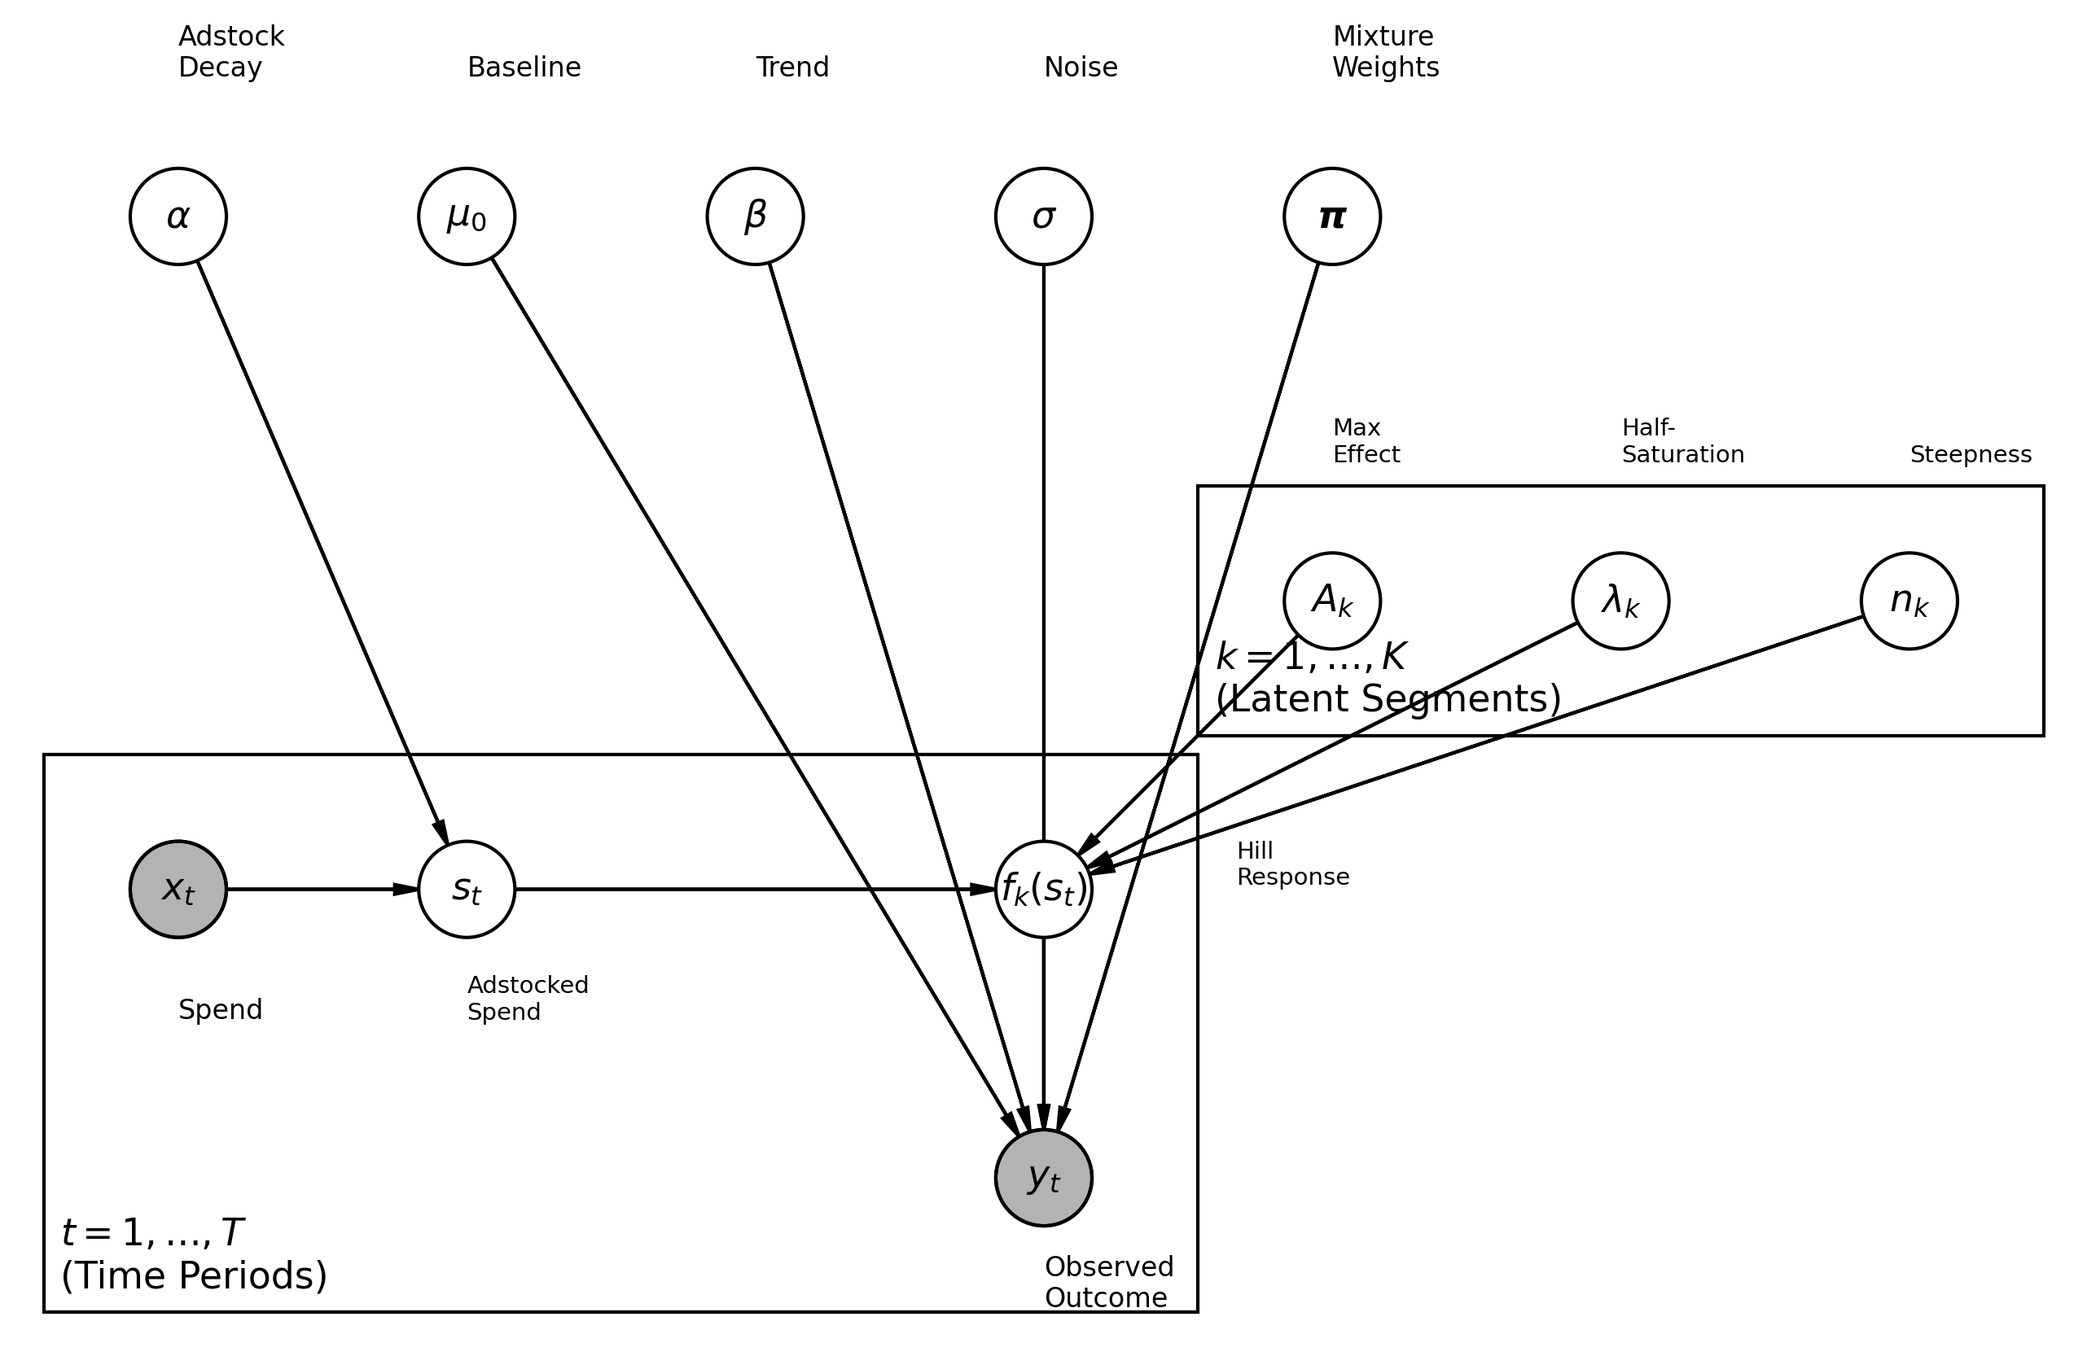
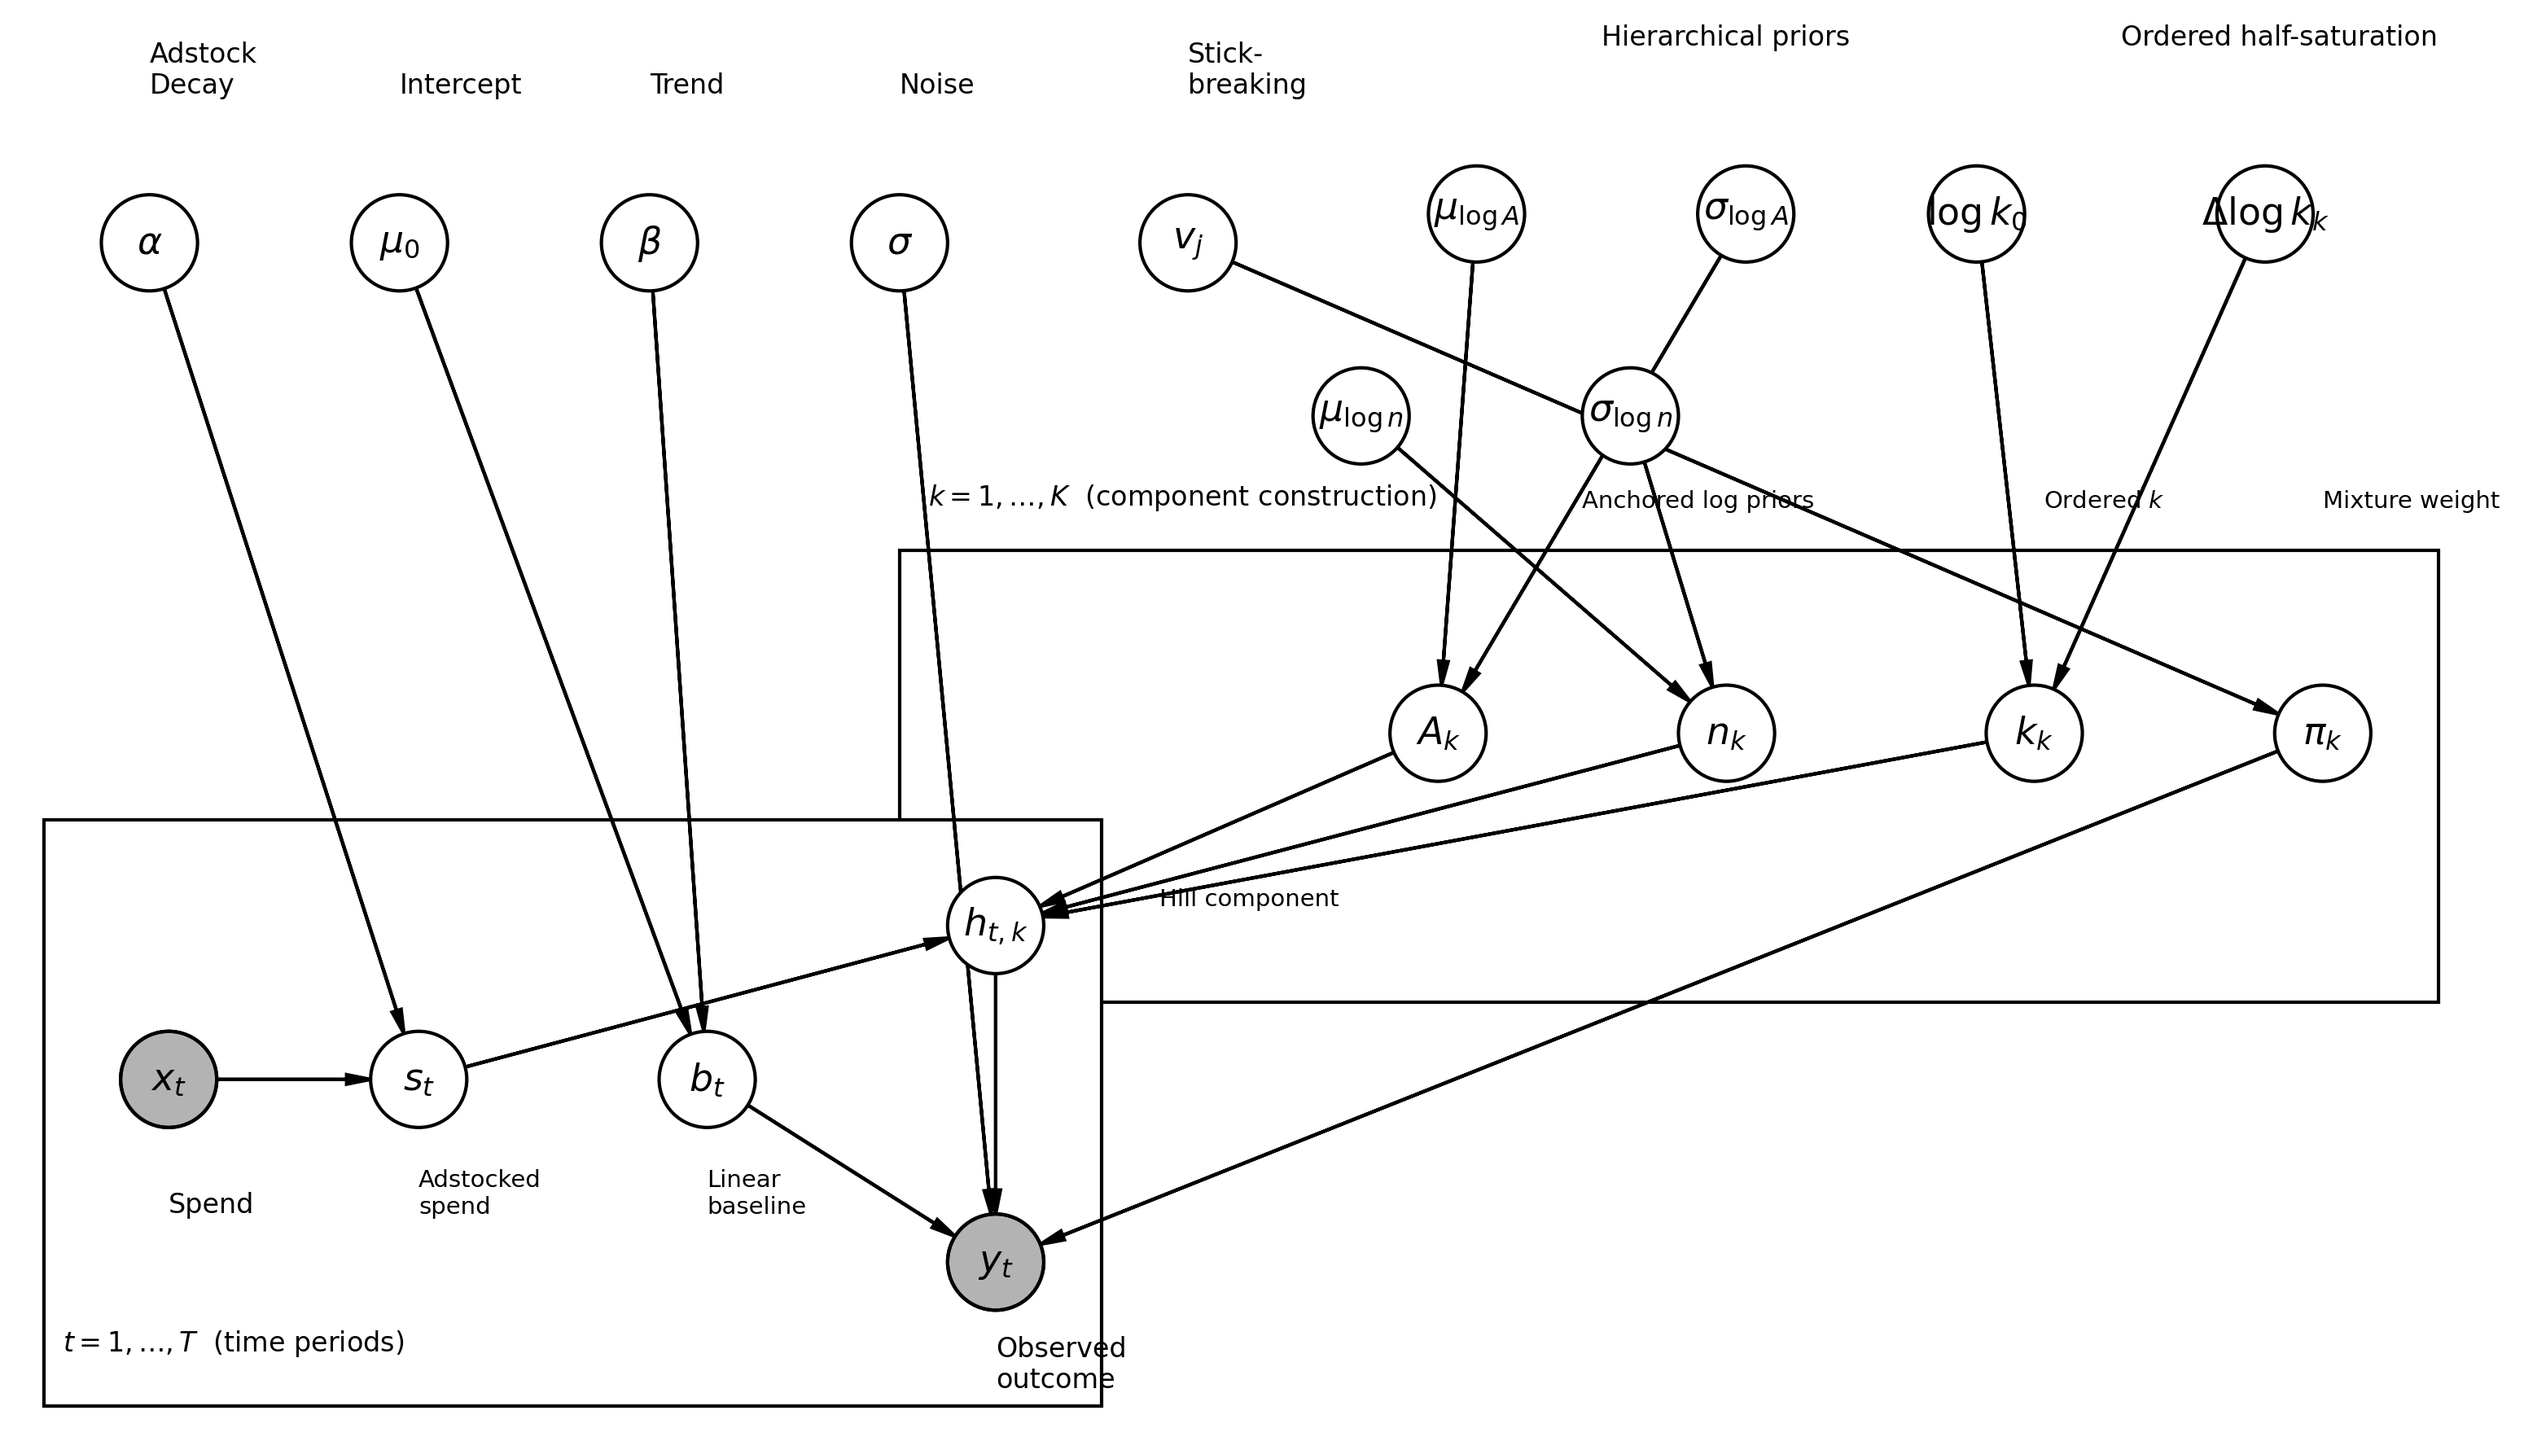
docs: refresh graphical model figure

diff --git a/main.tex b/main.tex
@@ -45,9 +45,9 @@ where $\alpha \in [0,1]$ is the decay parameter with prior $\alpha \sim \text{Be
 
 \paragraph{Hill saturation.} For each latent segment $k \in \{1, \ldots, K\}$, the response function is:
 \begin{equation}
-    f_k(s) = A_k \cdot \frac{s^{n_k}}{\lambda_k^{n_k} + s^{n_k}}
+    f_k(s) = A_k \cdot \frac{s^{n_k}}{k_k^{n_k} + s^{n_k}}
 \end{equation}
-where $A_k$ is the maximum effect, $\lambda_k$ is the half-saturation point, and $n_k \sim \text{LogNormal}(\log 1.5, 0.4)$ controls curve steepness.
+where $A_k$ is the maximum effect, $k_k$ is the half-saturation point, and $n_k$ controls curve steepness.
 
 \paragraph{Mixture weights.} For $K > 1$, the component weights use a finite stick-breaking parameterization:
 \begin{equation}
@@ -63,7 +63,7 @@ where $A_k$ is the maximum effect, $\lambda_k$ is the half-saturation point, and
 \end{equation}
 where $\mu_0, \beta$ capture baseline trend.
 
-\paragraph{Hierarchical stabilization.} Component amplitudes and Hill exponents share hierarchical priors, and we add modest fixed offsets on $\log A_k$ and $\log n_k$ to keep neighboring components separated during sampling. Half-saturation points are ordered through cumulative positive increments on $\log \lambda_k$, which gives an identifiable component ordering without hard-coding the component values.
+\paragraph{Hierarchical stabilization.} Component amplitudes and Hill exponents share hierarchical priors, and we add modest fixed offsets on $\log A_k$ and $\log n_k$ to keep neighboring components separated during sampling. Half-saturation points are ordered through cumulative positive increments on $\log k_k$, which gives an identifiable component ordering without hard-coding the component values.
 
 \paragraph{Automatic prior scaling.} To accommodate diverse data scales, priors are computed automatically from training data: $A_k \sim \text{LogNormal}(\log(0.3 \cdot \text{range}(y)), 0.8)$, $\mu_0 \sim \mathcal{N}(\bar{y}, 2\sigma_y)$, and $\sigma \sim \text{HalfNormal}(\sigma_y)$.
 
@@ -71,9 +71,9 @@ where $\mu_0, \beta$ capture baseline trend.
 
 Mixture models suffer from label switching, where posterior samples may exchange component labels across MCMC iterations. This renders standard convergence diagnostics meaningless: chains may have converged to the same posterior but with permuted labels.
 
-\paragraph{Within-MCMC ordering.} We impose ordering through a base half-saturation point plus positive increments on the log scale, ensuring $\lambda_1 < \lambda_2 < \cdots < \lambda_K$ while keeping the parameterization compatible with non-centered sampling.
+\paragraph{Within-MCMC ordering.} We impose ordering through a base half-saturation point plus positive increments on the log scale, ensuring $k_1 < k_2 < \cdots < k_K$ while keeping the parameterization compatible with non-centered sampling.
 
-\paragraph{Post-hoc relabeling.} Ordering on $\lambda_k$ is not sufficient to make every component-specific diagnostic stable. After MCMC, we therefore relabel component summaries deterministically by ordered $\lambda_k$ before reporting component-level diagnostics and recovery plots.
+\paragraph{Post-hoc relabeling.} Ordering on $k_k$ is not sufficient to make every component-specific diagnostic stable. After MCMC, we therefore relabel component summaries deterministically by ordered $k_k$ before reporting component-level diagnostics and recovery plots.
 
 \paragraph{Label-invariant diagnostics.} We compute R-hat on three quantities: (1) the total log-likelihood (label-invariant by construction), (2) scalar parameters ($\alpha$, $\sigma$), and (3) relabeled component parameters. In the synthetic benchmark we report both a strict convergence flag and a broader publication-level status that allows Warn/Pass separation for mixture fits.
 
